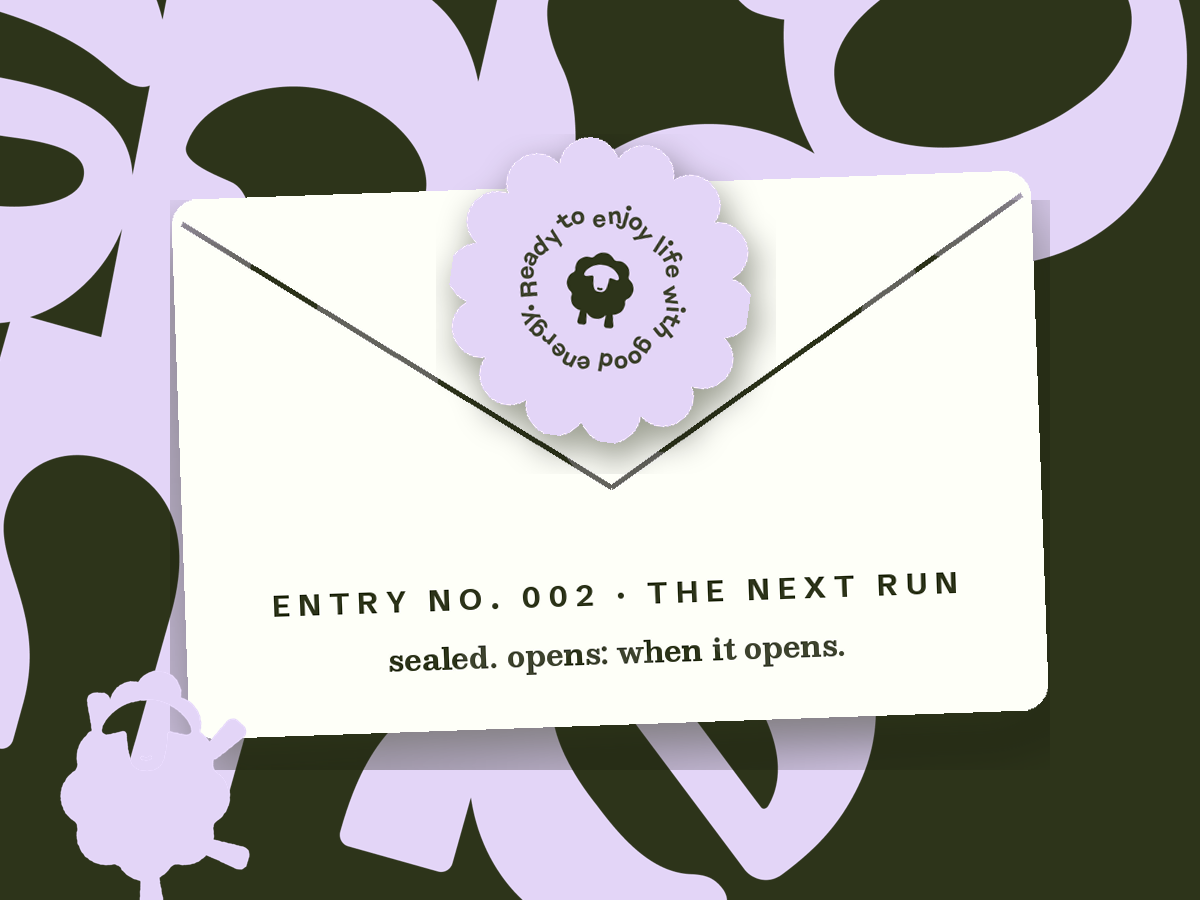
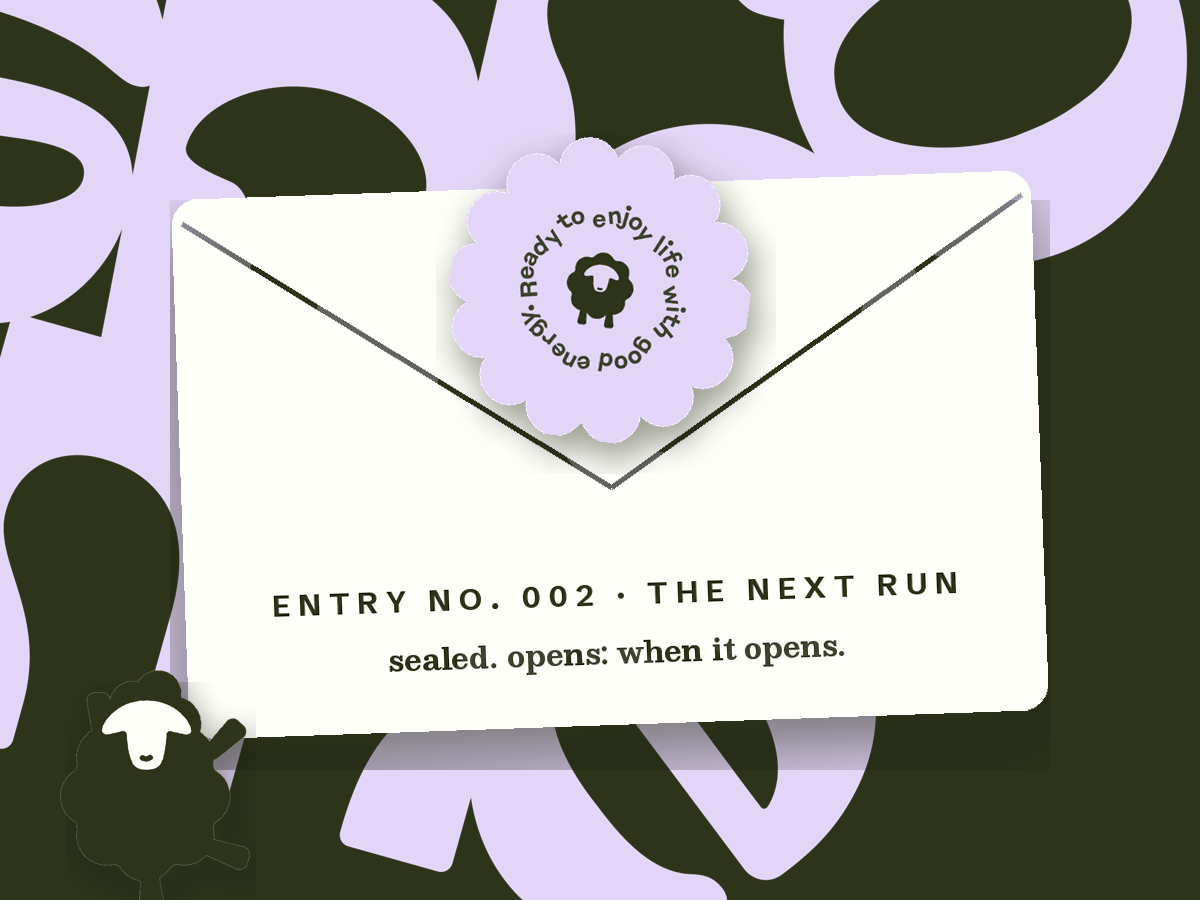
Dispatch 003 becomes the production update; me contrast fixed in email art
The redacted email is now a warm, instantly-clear production status note
(recipes locked, materials moving, flock hears the date first) with
exactly one playful redaction bar on the flavor line that pays off in
dispatch 004. Klaviyo templates renamed without em-dashes and updated.
Envelope and induction hero art regenerated with solid-face me (cream
face on ink body) so she reads clearly; all five heroes contrast-checked.

Claude-Session: https://claude.ai/code/session_01USMDYN3yidXQJmuoJcBdPi

Changed region(s): [[0.0308, 0.7467, 0.2158, 1.0]]

diff --git a/app/lib/emails.ts b/app/lib/emails.ts
@@ -9,8 +9,9 @@
 //     welcome   → lavender induction: composed member-card hero art
 //     dispatch 001 (sachet)  → cream editorial: specimen art + asymmetric rows
 //     dispatch 002 (ledger)  → ink-dominant: sealed-envelope drama on ink
-//     dispatch 003 (redacted)→ document aesthetic: paper record, courier type,
-//                              real redaction bars, rotated FLOCK EYES ONLY stamp
+//     dispatch 003 (redacted)→ the production update: warm, plain-spoken
+//                              status note on a paper card, exactly one
+//                              playful redaction bar (the flavor line)
 //     dispatch 004 (ballot)  → election poster: split-field candidates + VS
 //   Composite hero art lives in public/email/*.png (generated from brand
 //   assets + the brand TTFs, so display type is authentic even though email
@@ -27,8 +28,8 @@
 //   Every lifecycle email after welcome is a numbered dispatch from mé's
 //   ledger. Each dispatch: cold open → one revealed detail → one withheld
 //   detail → a next-dispatch tease. Recurring bits: mé's ledger sign-off
-//   line, the redaction bars (paid off in dispatch 004 — the flavor bar was
-//   covering a blank the flock fills in), the ballot as cliffhanger election.
+//   line, the single flavor-line redaction bar (paid off in dispatch 004:
+//   it was covering a blank the flock fills in), the cliffhanger election.
 // VOICE: lowercase-cool, warm, confident. "the first run / the next run",
 //   sold out = "poured out", speed = "the stir is the recipe". Real numbers
 //   only (500 boxes, 9 days). HONESTY RULE ABSOLUTE: never a fake count,
@@ -618,7 +619,7 @@ export function ledgerEmail(email: string) {
 
     <!-- open loop: dispatch 003 -->
     ${nextDispatch(
-      `dispatch 003: a production sheet crosses mé's desk, most of it blacked out. one bar comes off. two stay. one of the two is not what you think.`
+      `dispatch 003: the production update. where the next run actually stands, told straight, with exactly one line kept under the bar.`
     )}
 
     <!-- sign-off ritual -->
@@ -633,83 +634,76 @@ export function ledgerEmail(email: string) {
   return { subject, html };
 }
 
-// ─── Dispatch 003: the redacted production sheet — document aesthetic ────────
-// Drama beat: a production-floor record with the good parts blacked out.
-// Courier type, paper card on lavender, real ink bars (never a fake number),
-// rotated FLOCK EYES ONLY stamp. Revealed: status is in motion (that bar
-// came off). Withheld: run size + the flavor line. The flavor bar is the
-// series' long con — dispatch 004 reveals it was covering a blank.
+// ─── Dispatch 003: the production update — warm status note, paper card ──────
+// Plain-spoken beat: a straightforward status note from the team about the
+// next run, readable on first skim. Everything stated straight: recipes
+// locked, materials moving, the flock hears the date first. EXACTLY ONE
+// playful withheld detail: the flavor line, under a single ink bar (the
+// series' long con: dispatch 004 reveals it was covering a blank the flock
+// fills in). Paper-card aesthetic kept, shipper-box photo as the hero.
 
 export function redactedEmail(email: string) {
-  const subject = "dispatch 003: one bar came off the sheet";
-  const previewText = "most of it stays blacked out. two bars left. one of them is hiding nothing at all.";
-  const docLine = (label: string, value: string) =>
-    `<p style="margin:0 0 12px;font-family:${MONO};font-size:14px;line-height:1.9;color:${EMAIL.ink};">${label} ${value}</p>`;
+  const subject = "dispatch 003: the production update";
+  const previewText = "recipes locked. materials moving. the flock hears the date first. one line stays covered.";
+  const updateLine = (label: string, value: string, last = false) =>
+    `<tr><td style="padding:${last ? "14px 0 0" : "14px 0"};${last ? "" : `border-bottom:1px solid rgba(45,52,26,0.15);`}">
+      <p style="margin:0 0 3px;font-family:${MONO};font-size:12px;font-weight:700;letter-spacing:0.12em;text-transform:uppercase;color:${EMAIL.accent};">${label}</p>
+      <p style="margin:0;font-family:${SANS};font-size:15px;line-height:1.6;color:${EMAIL.ink};">${value}</p>
+    </td></tr>`;
   const html = emailShell(`
 
-    ${masthead("cream", "✿ &nbsp;dispatch 003&nbsp; · &nbsp;from the production floor&nbsp; · &nbsp;flock eyes only&nbsp; ✿")}
+    ${masthead("cream", "✿ &nbsp;dispatch 003&nbsp; · &nbsp;the production update&nbsp; · &nbsp;the flock reads it first&nbsp; ✿")}
 
-    <!-- cold open on lavender -->
-    <tr><td align="center" style="padding:44px 40px 0;background-color:${EMAIL.lavender};">
-      ${eyebrow("dispatch 003 · from the production floor", EMAIL.ink)}
-      ${headline("we blacked most<br/>of this out.", 38)}
+    <!-- hero: the shipper box, packed -->
+    <tr><td style="padding:0;background-color:${EMAIL.canvas};">
+      <img src="${ASSET.shipperBox}" alt="a shroomé shipper box, packed and ready to go out" width="600" style="display:block;width:100%;max-width:600px;height:auto;border:0;" />
     </td></tr>
-    <tr><td align="center" style="padding:22px 56px 34px;background-color:${EMAIL.lavender};">
+
+    <!-- cold open: the plain headline -->
+    <tr><td align="center" style="padding:44px 40px 0;background-color:${EMAIL.canvas};">
+      ${eyebrow("dispatch 003 · the production update")}
+      ${headline("the next run<br/>is in motion.", 40)}
+    </td></tr>
+    <tr><td align="center" style="padding:22px 60px 36px;background-color:${EMAIL.canvas};">
       ${para(
-        `a production sheet crossed mé's desk this week. current, not archive. it reaches the flock with exactly one bar lifted, and mé is not taking questions.`
+        `a quick status note from the team, no riddles this time. you wait for these emails, so here is exactly where the next run stands, in plain words.`
       )}
     </td></tr>
 
-    <!-- the document (paper card on lavender) -->
-    <tr><td style="padding:0 40px 44px;background-color:${EMAIL.lavender};">
+    <!-- the update (paper card on lavender) -->
+    <tr><td style="padding:36px 40px 44px;background-color:${EMAIL.lavender};">
       <table role="presentation" width="100%" cellpadding="0" cellspacing="0" border="0">
-        <tr><td style="background-color:${EMAIL.canvas};border:2px solid ${EMAIL.ink};border-radius:6px;padding:0 30px 24px;">
-          <img src="${ASSET.stampFlockOnly}" alt="rubber stamp: flock eyes only" width="200" style="display:block;width:200px;max-width:56%;height:auto;border:0;margin:-8px 0 0 auto;" />
-          <p style="margin:-20px 0 18px;font-family:${MONO};font-size:13px;font-weight:700;letter-spacing:0.12em;text-transform:uppercase;color:${EMAIL.ink};">production record<br/>re: the next run</p>
-          ${docLine("status:", `<strong>in motion</strong> <span style="font-family:${SANS};font-size:10px;font-weight:800;letter-spacing:0.16em;text-transform:uppercase;color:${EMAIL.accent};">&nbsp;· bar lifted</span>`)}
-          ${docLine("run size:", redact(120))}
-          ${docLine("flavor line:", redact(160))}
-          ${docLine("first pour goes to:", `<strong>the flock, a full day early</strong>`)}
-          <p style="margin:18px 0 0;font-family:${MONO};font-size:12px;line-height:1.6;color:${EMAIL.ink};opacity:0.55;">redactions by mé. appeals denied.</p>
+        <tr><td style="background-color:${EMAIL.canvas};border:2px solid ${EMAIL.ink};border-radius:6px;padding:26px 30px 22px;">
+          <p style="margin:0 0 6px;font-family:${MONO};font-size:13px;font-weight:700;letter-spacing:0.12em;text-transform:uppercase;color:${EMAIL.ink};">the production update<br/>re: the next run</p>
+          <table role="presentation" width="100%" cellpadding="0" cellspacing="0" border="0">
+            ${updateLine("recipes", `<strong>locked.</strong> same sachets, same real numbers. nothing watered down.`)}
+            ${updateLine("materials", `<strong>on the move.</strong> matcha, sachets, and boxes are making their way to the production floor.`)}
+            ${updateLine("run date", `<strong>set once everything lands.</strong> the flock hears it first, a full day before the public.`)}
+            ${updateLine("flavor line", `${redact(150)}<br/><span style="font-size:13px;opacity:0.7;">the one detail we're keeping under the bar. it comes off in dispatch 004.</span>`, true)}
+          </table>
+          <p style="margin:18px 0 0;font-family:${MONO};font-size:12px;line-height:1.6;color:${EMAIL.ink};opacity:0.55;">one redaction. mé wouldn't allow more suspense than that.</p>
         </td></tr>
       </table>
     </td></tr>
 
-    <!-- exhibit a: archive photo strip -->
-    <tr><td style="padding:36px 32px 0;background-color:${EMAIL.canvas};">
-      <table role="presentation" width="100%" cellpadding="0" cellspacing="0" border="0">
-        <tr>
-          <td width="55%" valign="middle" style="padding:0;">
-            <img src="${ASSET.shipperBox}" alt="a shroomé shipper box from the first run" width="295" style="display:block;width:100%;height:auto;border:0;border-radius:16px;" />
-          </td>
-          <td width="6%" style="font-size:0;line-height:0;">&nbsp;</td>
-          <td width="39%" valign="middle" style="padding:0;">
-            ${eyebrow("exhibit a", EMAIL.accent, 10)}
-            <p style="margin:0 0 10px;font-family:${DISPLAY};font-size:22px;font-weight:800;letter-spacing:-0.02em;line-height:1.15;color:${EMAIL.ink};">the first run.</p>
-            ${para(`${DROP_001.boxes} boxes, poured out in ${DROP_001.soldOutInDays} days. archive material now.`, { size: 13, opacity: 0.75 })}
-          </td>
-        </tr>
-      </table>
-    </td></tr>
-
-    <tr><td align="center" style="padding:32px 60px 0;background-color:${EMAIL.canvas};">
+    <tr><td align="center" style="padding:36px 60px 0;background-color:${EMAIL.canvas};">
       ${para(
-        `the bars come off in order, flock first, then everyone. and a note for the careful readers: one of those two bars is not covering a secret. it's covering something better. nothing to do tonight except be the kind of person who already knows.`
+        `that's the whole update. no countdown theater, no invented dates. the first run was ${DROP_001.boxes} boxes and poured out in ${DROP_001.soldOutInDays} days, so this one is being built carefully, and when the date is real you will read it before anyone else does.`
       )}
     </td></tr>
 
     <!-- CTA -->
     <tr><td align="center" style="padding:28px 40px 0;background-color:${EMAIL.canvas};">
-      ${ctaButton(`${EMAIL.siteUrl}/drop`, "watch the ledger →")}
+      ${ctaButton(`${EMAIL.siteUrl}/drop`, "follow the run →")}
     </td></tr>
 
     <!-- open loop: dispatch 004 -->
     ${nextDispatch(
-      `dispatch 004: the flavor line. the bar comes off and there is nothing under it. that's the point. the flock writes that line.`
+      `dispatch 004: the flavor bar comes off, and what's under it isn't a flavor. it's a ballot. the flock writes that line.`
     )}
 
     <!-- sign-off ritual -->
-    ${ledgerLine("two redactions standing. appeals denied.")}
+    ${ledgerLine("entry 003: recipes locked, materials moving. one line covered, for now.")}
 
     <tr><td align="center" style="padding:20px 40px 32px;background-color:${EMAIL.canvas};">
       ${socialRow()}
